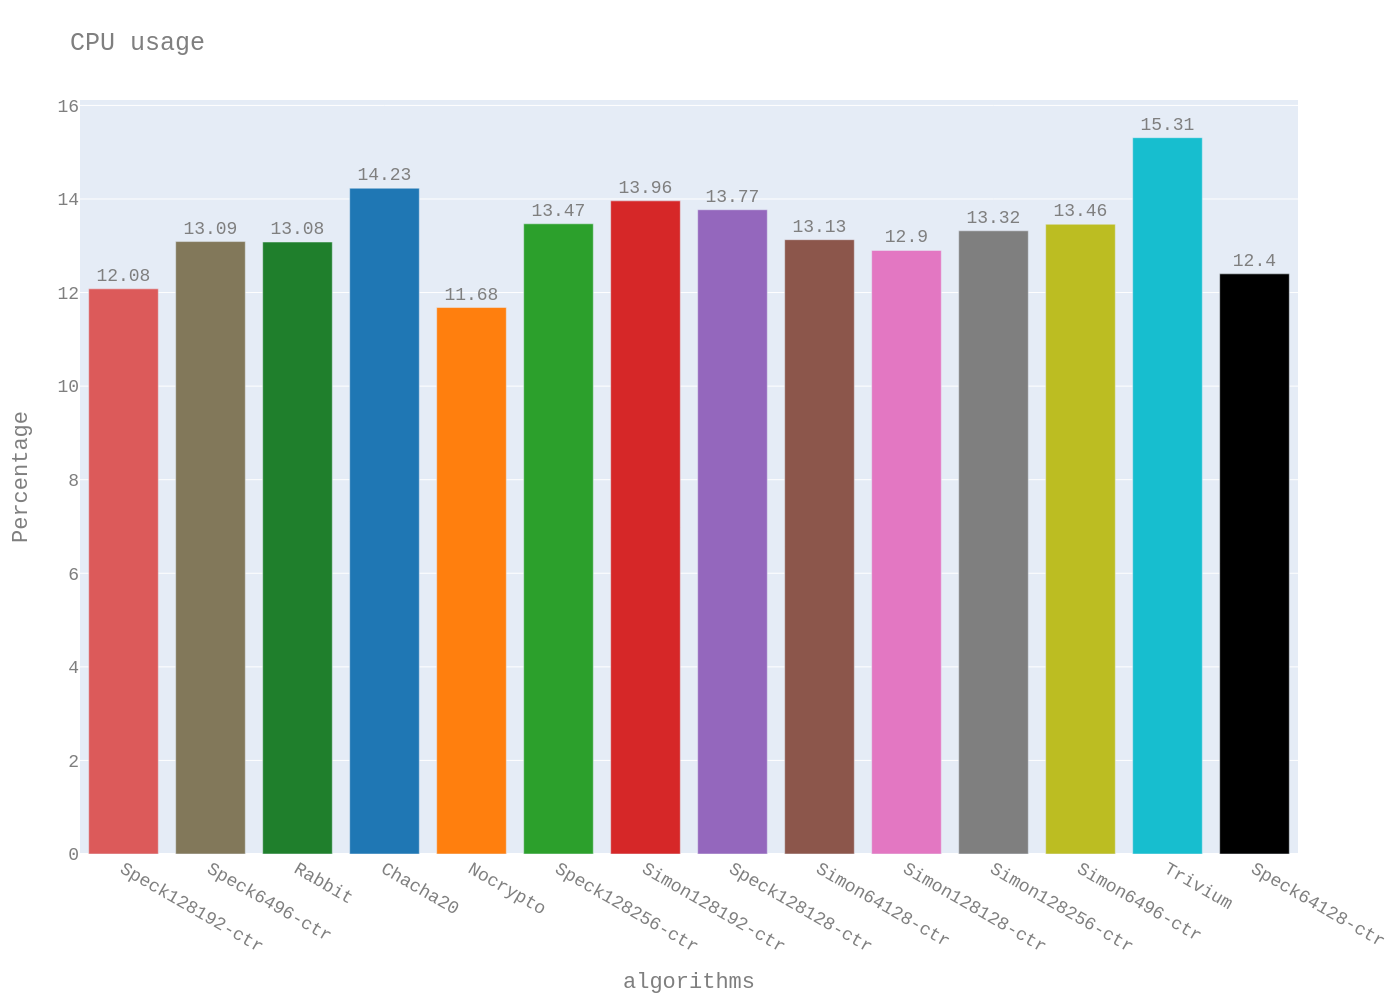
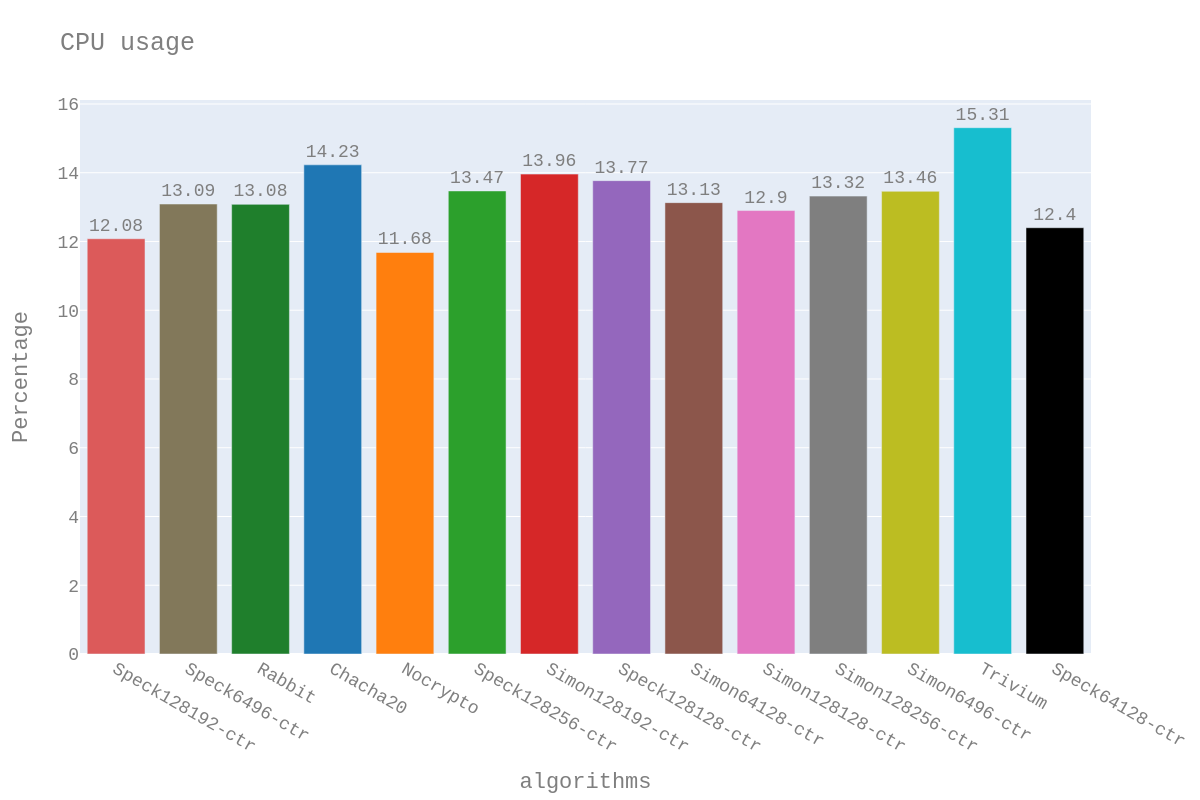
Update submodule

diff --git a/benchmark/data/bench.py b/benchmark/data/bench.py
@@ -80,8 +80,8 @@ def plot(dir_path):
     if not os.path.exists("{}/result".format(dir_path)):
         os.mkdir("{}/result".format(dir_path))
 
-    fig_cpu.write_image("{}/result/cpu.png".format(dir_path),width=1400,height=1000)
-    fig_mem.write_image("{}/result/mem.png".format(dir_path),width=1400,height=1000)
+    fig_cpu.write_image("{}/result/cpu.png".format(dir_path),width=1200,height=800)
+    fig_mem.write_image("{}/result/mem.png".format(dir_path),width=1200,height=800)
 
 def battery_plot(file_path):
     df = pd.read_csv(file_path,sep=",",header=0,encoding='utf-8')
